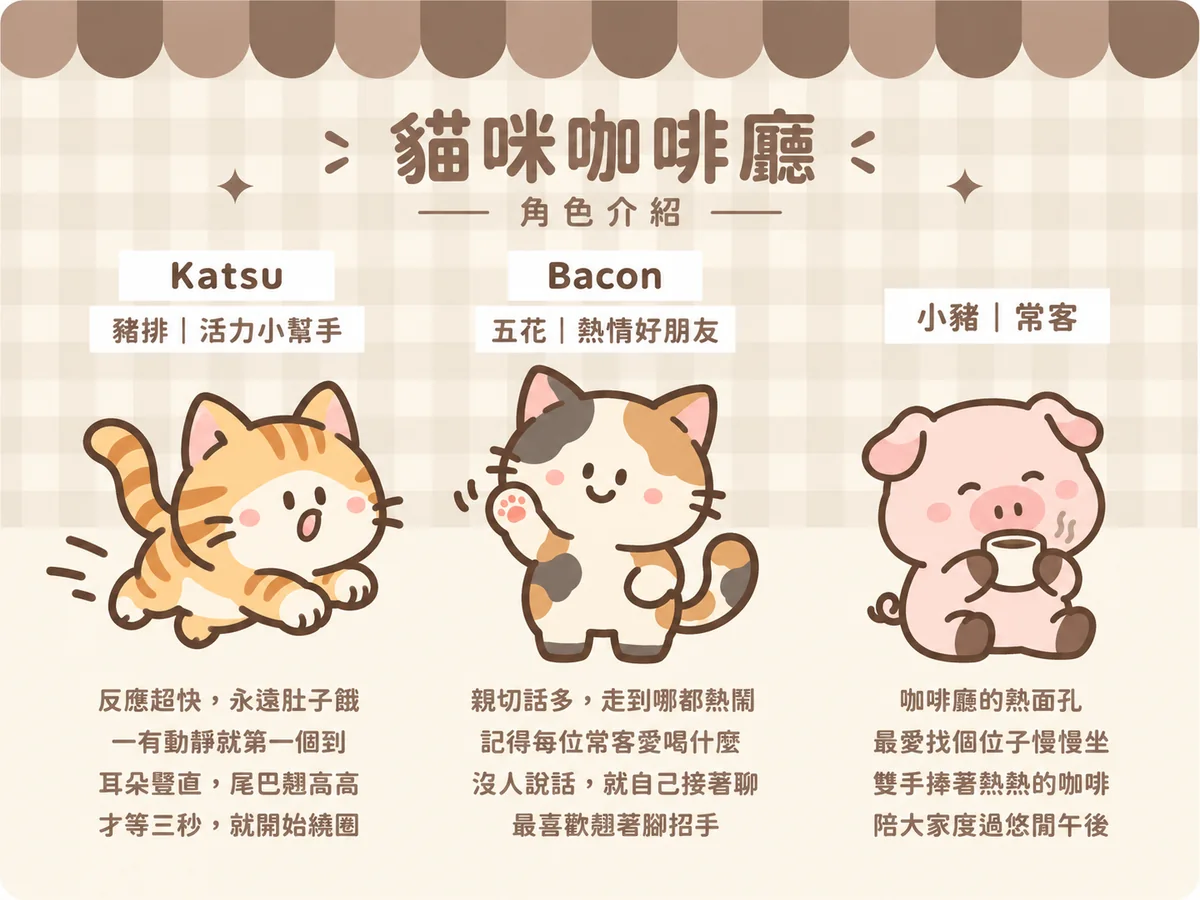
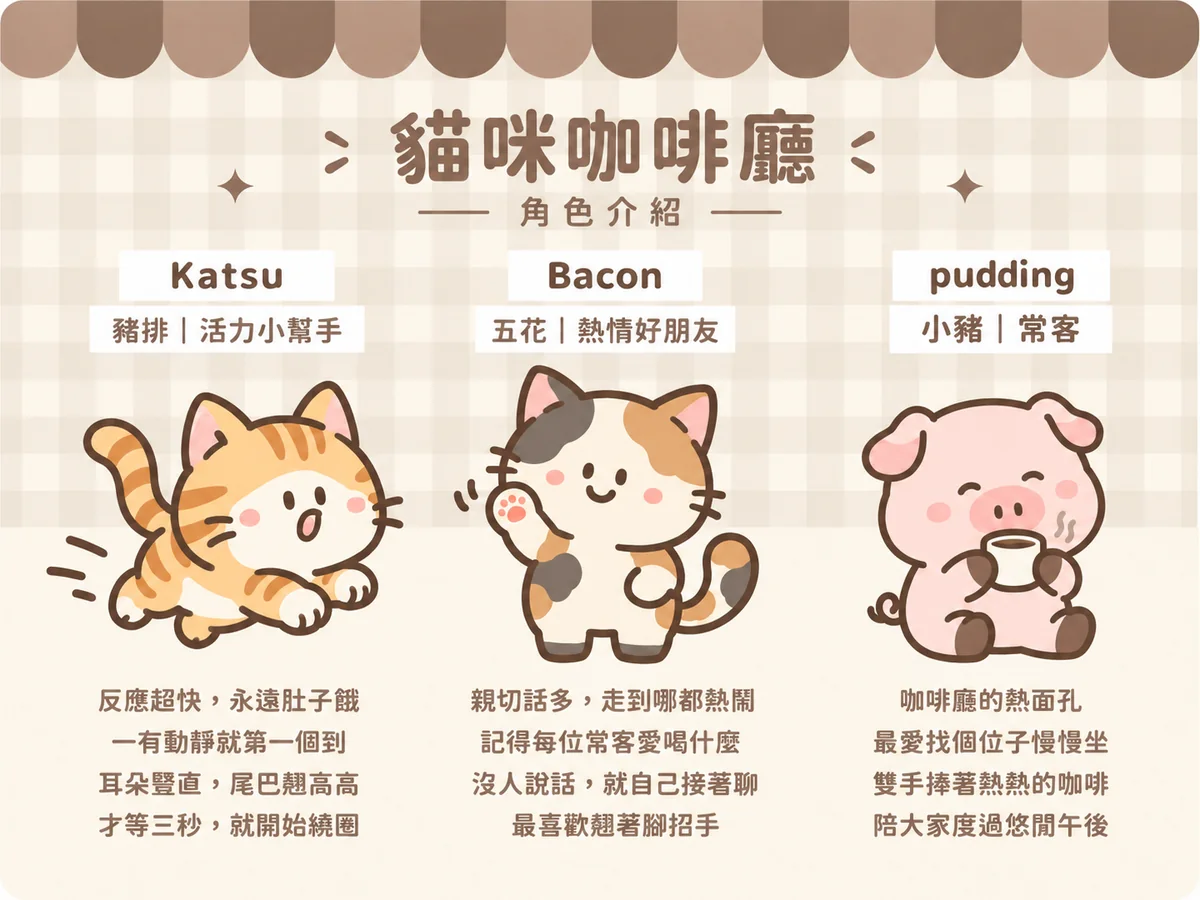
角色介紹第二張換她更新的版本（小豬英文名 Pudding），加 ?v=2 破快取

diff --git a/index.html b/index.html
@@ -537,7 +537,7 @@ dialog{color:var(--ink)}
   </div>
   <div class="intro-grid">
     <img src="assets/intro-1.webp" alt="角色介紹：大牛 Niubao 店長、糰糰 Mochi 收信員、粿粿 Kueh 細心小管家" width="1200" height="900" loading="lazy" decoding="async">
-    <img src="assets/intro-2.webp" alt="角色介紹：豬排 Katsu 活力小幫手、五花 Bacon 熱情好朋友、小豬 常客" width="1200" height="900" loading="lazy" decoding="async">
+    <img src="assets/intro-2.webp?v=2" alt="角色介紹：豬排 Katsu 活力小幫手、五花 Bacon 熱情好朋友、小豬 Pudding 常客" width="1200" height="900" loading="lazy" decoding="async">
   </div>
 </section>
 </main>
